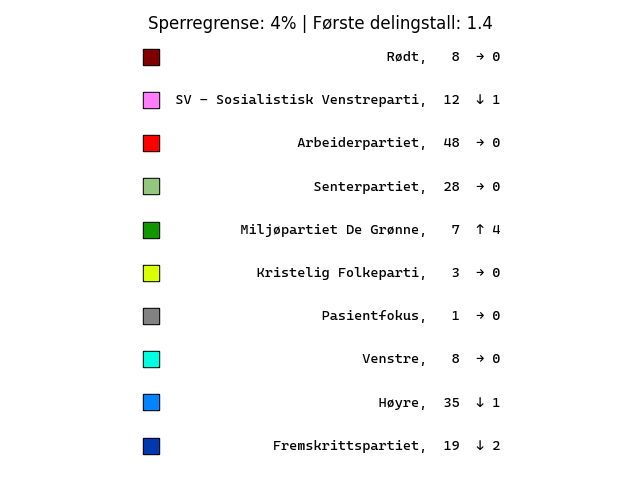
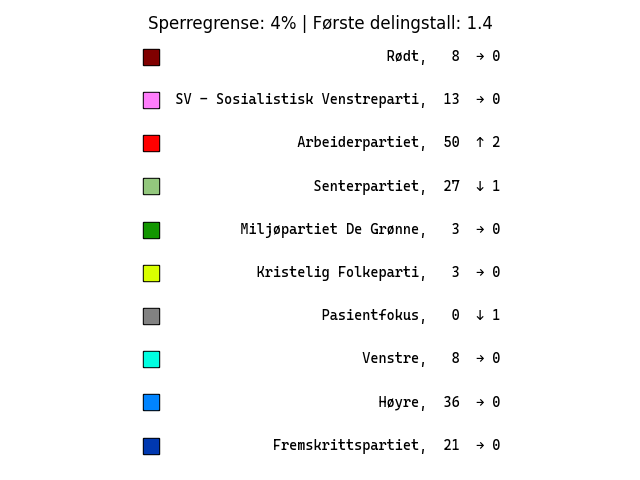
Added adjustments sheet for experimenting.

diff --git a/election.py b/election.py
@@ -145,6 +145,8 @@ class Norway:
         self.transfer_votes_dict = {}
 
     def add_votes(self, district, party, votes):
+        if not district in self.populations:
+            print(f"Attempted to add votes in district {district}, but it doesn't exist.")
         if district in self.add_votes_dict:
             parties_dict = self.add_votes_dict[district]
             parties_dict[party] = votes
@@ -914,8 +916,15 @@ def main():
         norway = NewCountiesNorway(args, num_leveling_seats = num_leveling_seats)
     else:
         norway = Norway(args, num_leveling_seats = num_leveling_seats)
-
-    norway.add_votes("Akershus", "MDG", 1792)
+        adjustments = pd.read_excel("justeringer.ods")
+        for row in adjustments.iterrows():
+            party = row[1]["Partikode"]
+            for district in row[1].iteritems():
+                name = district[0]
+                votes = district[1]
+                if name == "Partikode" or name == "Partinavn":
+                    continue
+                norway.add_votes(name, party, votes)
 
     norway.calculate(dist_method = args.method)
     norway.show_results()
